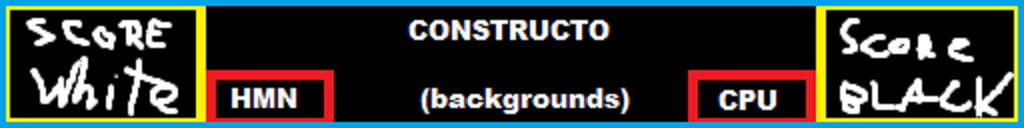
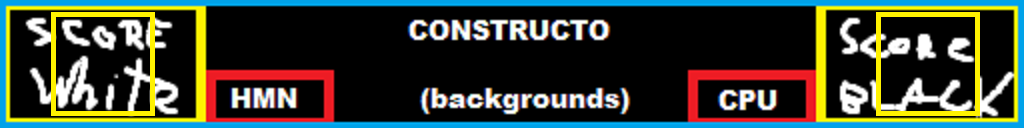
:tropical_drink: Marcadores de pontuação, funcionais mas
+ Mas não há função que calcule a pontuação. Pois.

Changed region(s): [[0.8438, 0.0938, 0.9688, 0.9062], [0.0312, 0.0938, 0.1562, 0.9062]]

diff --git a/TP3/reader/GameScene.js b/TP3/reader/GameScene.js
@@ -42,6 +42,10 @@ GameScene.prototype.init = function (application) {
 	this.shadershine = 1;
 	this.selectionShader.setUniformsValues({shine: this.shadershine});
 	
+	/* Shader de Texto */
+	this.textShader=new CGFshader(this.gl, "shaders/font.vert", "shaders/font.frag");
+	this.textShader.setUniformsValues({'dims': [16, 16]});
+	
 	/*Ambiente*/
 	this.Lights_On = true;
 	this.Ambient = 'Quarto';
@@ -1023,6 +1027,8 @@ GameScene.prototype.displayHUD = function(){
 		this.translate(-2.82,7.447,-4);
 		this.Game.HUD.Player.display();
 	this.popMatrix();
+	
+	
 
 	//RightPlayer
 	this.pushMatrix();
@@ -1035,6 +1041,33 @@ GameScene.prototype.displayHUD = function(){
 		this.Game.HUD.Player.display();
 	this.popMatrix();
 	
+	
+	//Pontuações
+	this.setActiveShaderSimple(this.textShader);
+	
+		//Esquerda
+		this.pushMatrix();
+			this.Game.HUD.appearance.setTexture(this.Game.HUD.Score.texture);
+			this.Game.HUD.appearance.setTextureWrap('REPEAT', 'REPEAT');
+			this.Game.HUD.appearance.apply();
+			this.activeShader.setUniformsValues({'charCoords': [this.Game.WhiteScore,3]});
+			this.scale(0.12,0.12,1);
+			this.translate(-4.75,5.65,-4);
+			this.Game.HUD.Score.display();
+		this.popMatrix();
+
+		//Direita
+		this.pushMatrix();
+			this.Game.HUD.appearance.setTexture(this.Game.HUD.Score.texture);
+			this.Game.HUD.appearance.setTextureWrap('REPEAT', 'REPEAT');
+			this.Game.HUD.appearance.apply();
+			this.activeShader.setUniformsValues({'charCoords': [this.Game.BlackScore,3]});
+			this.scale(0.12,0.12,1);
+			this.translate(3.84,5.65,-4);
+			this.Game.HUD.Score.display();
+		this.popMatrix();
+		
+	this.setActiveShader(this.defaultShader);
 	
 	//Bottom
 	this.pushMatrix();

diff --git a/TP3/reader/GameState.js b/TP3/reader/GameState.js
@@ -23,8 +23,8 @@ function GameState(scene){
 	//3 - Hmn VS hardCpu
 	this.gamemode = 0;
 	
-	this.WhiteScore = 0;
-	this.BlackScore = 0;
+	this.WhiteScore = 1;
+	this.BlackScore = 2;
 	
 	/* selections */
 	this.selectedpiece;
@@ -79,7 +79,11 @@ GameState.prototype.createHUD = function () {
 	//Player
 	this.HUD.Player = new SquarePrimitive(this.scene, 0, 1/2, 1, 0);
 	this.HUD.Player.texture1 = new CGFtexture(this.scene, "primitives/Hud/topHMN.png"); 
-	this.HUD.Player.texture2 = new CGFtexture(this.scene, "primitives/Hud/topCPU.png"); 
+	this.HUD.Player.texture2 = new CGFtexture(this.scene, "primitives/Hud/topCPU.png");
+	
+	//Score
+	this.HUD.Score = new SquarePrimitive(this.scene, 0, 1, 1, 0);
+	this.HUD.Score.texture = new CGFtexture(this.scene, "shaders/oolite-font.png");
 	
 	//Bot
 	this.HUD.botHUD = new SquarePrimitive(this.scene, 0, 1/5, 8/5, 0);
